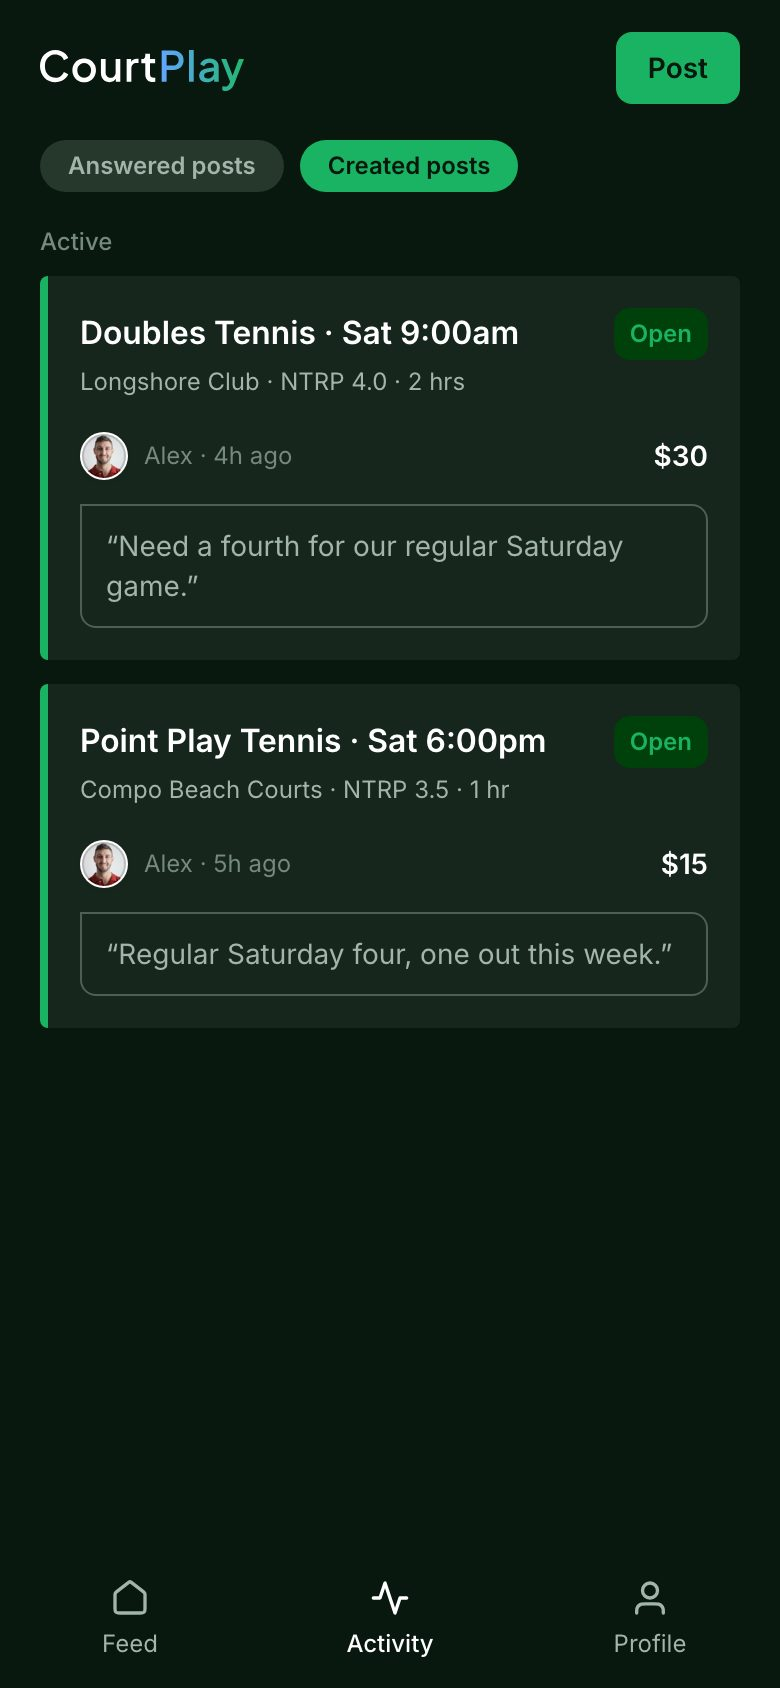
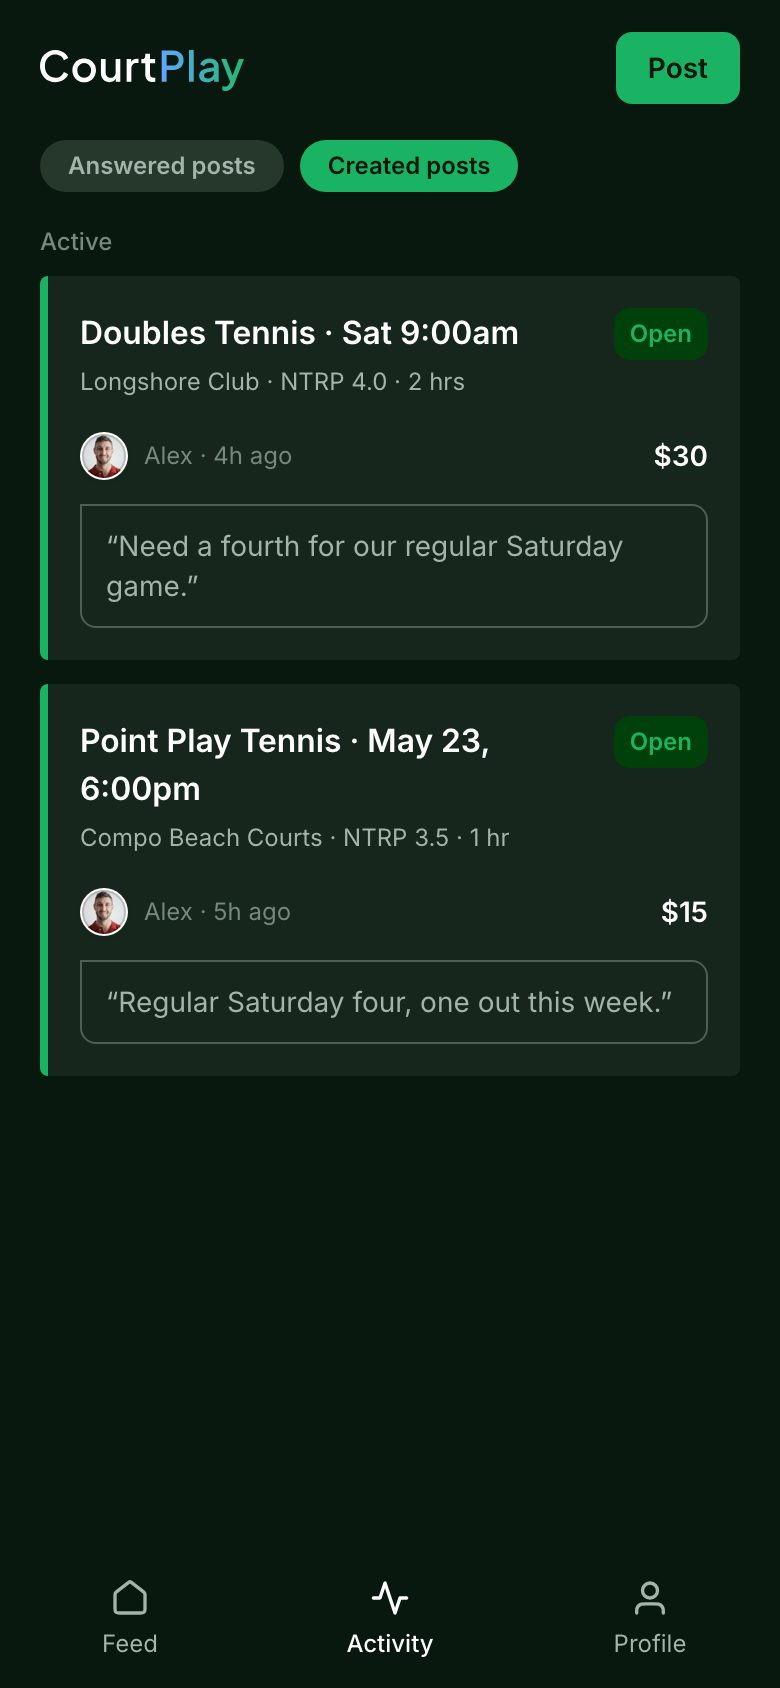
Show the date on cards more than a week out (#244)
"Sat 9:00am" only identifies a day while there is one Saturday coming. On a
post two weeks out it is ambiguous, and on an expired one it reads as the
Saturday ahead rather than the one gone. Past six days, the card now shows
"Aug 27, 9:00am" instead — three-letter month, numeric day, comma before the
time, per Figma 81:2492.

claim-detail-sheet had a byte-identical copy of the formatter; it now imports
the one in sub-card so the two cannot drift. The three claim banners keep
their own long-weekday wording — they read as sentences, not labels.

Two things this turned up in the tutorial's staleness flag, both fixed here
because this change is what exposed them:

- The Activity screen was fingerprinting its EMPTY state. The demo Supabase
  mock read `?screen=` from location.search, which only the browser sets, so
  in jsdom Activity got no rows and hashed "It's your serve" while the
  screenshot beside it showed two cards. No change to those cards could ever
  have failed the test. DemoProviders now sets the screen explicitly — it is
  the one component both engines run — and the test flushes until the tree
  stops moving instead of once.

- The Profile screenshot carried "Version <sha>", so it came out different
  after every commit. jsdom has no __BUILD_ID__, so the fingerprint could not
  see it either: the image just went stale-and-recaptured forever. Hidden in
  the demo entry alongside the Beta pill, separator included.
[…]

diff --git a/src/__tests__/tutorial-screens.test.tsx b/src/__tests__/tutorial-screens.test.tsx
@@ -5,7 +5,7 @@ import { resolve } from "node:path";
 import { DemoProviders } from "@/demo/demo-providers";
 import { DEMO_SCREENS } from "@/demo/screens";
 import { DEMO_NOW } from "@/demo/fixtures";
-import { fingerprintElement } from "@/test/fingerprint";
+import { fingerprintElement, serializeElement } from "@/test/fingerprint";
 
 // No session, exactly as the capture browser sees it — a fresh context has none.
 // The two engines must resolve auth the same way or the fingerprint would
@@ -50,6 +50,32 @@ const readManifest = (): Manifest =>
  * `npm run capture:tutorial` does after taking new screenshots, so the hashing
  * happens in exactly one place rather than once here and once in the browser.
  */
+/**
+ * Flush until the tree stops moving.
+ *
+ * A single `act` round is not enough: the screens that render a real page wait
+ * on `getSession()` and THEN fetch their rows, so one flush leaves them showing
+ * a loading or empty state. That is not a slow test — it is a blind one. It
+ * shipped that way: `activity` fingerprinted its "It's your serve" empty state
+ * while the screenshot beside it showed two cards, so no change to those cards
+ * could ever have failed this test.
+ *
+ * Settling on "two consecutive rounds serialize the same" handles a chain of
+ * any length without hard-coding how long it is.
+ */
+const SETTLE_ROUNDS = 20;
+
+async function settle(container: Element) {
+    let previous = "";
+    for (let i = 0; i < SETTLE_ROUNDS; i++) {
+        await act(async () => {});
+        const current = serializeElement(container);
+        if (current === previous) return;
+        previous = current;
+    }
+    throw new Error(`Demo screen never settled after ${SETTLE_ROUNDS} flushes.`);
+}
+
 describe("tutorial screenshots are current", () => {
     beforeAll(() => {
         vi.setSystemTime(new Date(DEMO_NOW));
@@ -60,9 +86,7 @@ describe("tutorial screenshots are current", () => {
     for (const id of Object.keys(DEMO_SCREENS)) {
         it(`fingerprints "${id}"`, async () => {
             const { container } = render(<DemoProviders screen={id}>{DEMO_SCREENS[id]()}</DemoProviders>);
-            // useAuth resolves getSession() after mount and flips `loading`.
-            // Hashing before that settles would capture the loading tree.
-            await act(async () => {});
+            await settle(container);
             hashes[id] = fingerprintElement(container);
 
             if (UPDATING) return;

diff --git a/src/demo/supabase-mock.ts b/src/demo/supabase-mock.ts
@@ -39,16 +39,28 @@ import {
  * Which screen is being photographed. The feed must not carry the pending-claim
  * banner that Activity needs, or the notification stack covers the posts the
  * slide is about — so the same RPC answers differently per screen.
+ *
+ * DemoProviders sets this, because it is the one thing both engines run. Reading
+ * `location.search` here instead was a silent trap: the browser puts the id in
+ * the URL, the fingerprint test puts it on a MemoryRouter, so in jsdom this was
+ * always null and Activity fingerprinted its empty state while the screenshot
+ * beside it showed two cards.
  */
-const screen = typeof location !== "undefined" ? new URLSearchParams(location.search).get("screen") : null;
-const onActivity = screen === "activity";
+let activeScreen: string | null = null;
 
-const RPC_DATA: Record<string, unknown> = {
+export function setDemoScreen(id: string | null) {
+    activeScreen = id;
+}
+
+const onActivity = () => activeScreen === "activity";
+
+/** A value, or a thunk for the entries that depend on which screen is active. */
+const RPC_DATA: Record<string, unknown | (() => unknown)> = {
     get_feed: [DEMO_SUB_POST, DEMO_REGULAR_POST, DEMO_CLAIMED_POST],
     get_my_groups: DEMO_GROUPS,
     get_profile: DEMO_PROFILE_PAGE,
-    get_my_posts_with_claims: onActivity ? DEMO_CREATED_POSTS : [],
-    get_my_claims_with_posts: onActivity ? DEMO_MY_CLAIMS : [],
+    get_my_posts_with_claims: () => (onActivity() ? DEMO_CREATED_POSTS : []),
+    get_my_claims_with_posts: () => (onActivity() ? DEMO_MY_CLAIMS : []),
     get_post_audience: [],
     get_my_tagged_posts: [],
     search_users: [],
@@ -86,7 +98,10 @@ export const supabase = {
         onAuthStateChange: () => ({ data: { subscription: { unsubscribe: () => {} } } }),
         signOut: async () => ({}),
     },
-    rpc: async (name: string) => ({ data: RPC_DATA[name] ?? null, error: null }),
+    rpc: async (name: string) => {
+        const entry = RPC_DATA[name];
+        return { data: (typeof entry === "function" ? (entry as () => unknown)() : entry) ?? null, error: null };
+    },
     from: (table: string) => query(TABLE_DATA[table] ?? []),
     channel: () => ({ on: () => ({ subscribe: () => ({}) }) }),
     removeChannel: () => {},

diff --git a/src/__tests__/sub-card.test.tsx b/src/__tests__/sub-card.test.tsx
@@ -1,7 +1,7 @@
 import { describe, expect, it, vi, beforeEach } from "vitest";
 import { render as rtlRender, screen, fireEvent } from "@testing-library/react";
 import { MemoryRouter } from "react-router";
-import { SubCard, gameEndMs, KIND_CONFIG } from "@/components/app/sub-card";
+import { SubCard, gameEndMs, formatWhen, KIND_CONFIG } from "@/components/app/sub-card";
 import type { FeedPost } from "@/types/feed";
 
 // eslint-disable-next-line @typescript-eslint/no-explicit-any
@@ -211,5 +211,41 @@ describe("status badges carry no dot", () => {
         for (const config of Object.values(KIND_CONFIG)) {
             expect(config).not.toHaveProperty("dot");
         }
+    });
+});
+
+/**
+ * A weekday only identifies a day while there is one of them coming. Past six
+ * days out, "Sat" could be any of several Saturdays, so the date takes over.
+ */
+describe("formatWhen", () => {
+    const iso = (daysFromToday: number) => {
+        const d = new Date();
+        d.setHours(12, 0, 0, 0);
+        d.setDate(d.getDate() + daysFromToday);
+        return d.toISOString().slice(0, 10);
+    };
+
+    it("uses the weekday inside the next six days", () => {
+        for (const days of [0, 1, 3, 6]) {
+            const out = formatWhen(iso(days), "09:00");
+            expect(out).toMatch(/^(Mon|Tue|Wed|Thu|Fri|Sat|Sun) 9:00am$/);
+            expect(out).not.toContain(",");
+        }
+    });
+
+    it("uses month and day beyond that, with a comma before the time", () => {
+        const out = formatWhen(iso(7), "09:00");
+        expect(out).toMatch(/^[A-Z][a-z]{2} \d{1,2}, 9:00am$/);
+    });
+
+    /** "Tue" on an expired post reads as the Tuesday coming, not the one gone. */
+    it("uses month and day for a date already past", () => {
+        expect(formatWhen(iso(-2), "18:00")).toMatch(/^[A-Z][a-z]{2} \d{1,2}, 6:00pm$/);
+    });
+
+    it("still handles a missing date or time", () => {
+        expect(formatWhen(null, "09:00")).toBe("9:00am");
+        expect(formatWhen(iso(30), null)).toMatch(/^[A-Z][a-z]{2} \d{1,2},$/);
     });
 });

diff --git a/src/components/app/sub-card.tsx b/src/components/app/sub-card.tsx
@@ -72,12 +72,33 @@ export function timeAgo(dateStr: string): string {
     return `${Math.floor(hrs / 24)}d ago`;
 }
 
-/** "Sat 9:00am" — weekday + start time, matching the GameCard title. */
+/** How far ahead a weekday still identifies a day without ambiguity. */
+const WEEKDAY_HORIZON_DAYS = 6;
+
+/**
+ * "Sat 9:00am" for a game inside the next week, "Aug 20, 9:00am" beyond it.
+ *
+ * A weekday is the friendlier form but it only means something while there is
+ * just one of them coming: past six days out, "Sat" could be any of several
+ * Saturdays, so the date takes over. Note the comma — it separates two numbers
+ * that would otherwise run together as "Aug 20 9:00am".
+ *
+ * A date in the past also takes the month-and-day form. An expired post saying
+ * "Tue" reads as the Tuesday coming rather than the one gone.
+ */
 export function formatWhen(gameDate: string | null, gameTime: string | null): string {
     const parts: string[] = [];
     if (gameDate) {
         const d = new Date(gameDate + "T12:00:00");
-        parts.push(d.toLocaleDateString("en-US", { weekday: "short" }));
+        // Both at noon, so a DST boundary between them cannot shift the count.
+        const today = new Date();
+        today.setHours(12, 0, 0, 0);
+        const days = Math.round((d.getTime() - today.getTime()) / 86_400_000);
+        parts.push(
+            days >= 0 && days <= WEEKDAY_HORIZON_DAYS
+                ? d.toLocaleDateString("en-US", { weekday: "short" })
+                : `${d.toLocaleDateString("en-US", { month: "short", day: "numeric" })},`,
+        );
     }
     if (gameTime) {
         const [h, m] = gameTime.split(":");

diff --git a/src/components/app/claim-detail-sheet.tsx b/src/components/app/claim-detail-sheet.tsx
@@ -2,6 +2,7 @@ import { useCallback, useEffect, useState } from "react";
 import { motion } from "motion/react";
 import { ArrowCircleRight, XClose } from "@untitledui/icons";
 import { Avatar } from "@/components/base/avatar/avatar";
+import { formatWhen } from "./sub-card";
 import { sendNotification } from "@/lib/notifications";
 import { supabase } from "@/lib/supabase";
 import { useShare } from "@/hooks/use-share";
@@ -17,22 +18,6 @@ import { describeActionError } from "@/utils/load-error";
 import { PRIMARY_MD as PRIMARY_BTN, SECONDARY_MD as SECONDARY_BTN } from "@/components/base/buttons/button-styles";
 
 const MESSAGE_MAX = 150;
-
-function formatWhen(gameDate: string | null, gameTime: string | null): string {
-    const parts: string[] = [];
-    if (gameDate) {
-        const d = new Date(gameDate + "T12:00:00");
-        parts.push(d.toLocaleDateString("en-US", { weekday: "short" }));
-    }
-    if (gameTime) {
-        const [h, m] = gameTime.split(":");
-        const hour = parseInt(h, 10);
-        const ampm = hour >= 12 ? "pm" : "am";
-        const h12 = hour % 12 || 12;
-        parts.push(`${h12}:${m}${ampm}`);
-    }
-    return parts.join(" ");
-}
 
 function formatDateLong(dateStr: string): string {
     const d = new Date(dateStr + "T12:00:00");

diff --git a/src/demo/demo-entry.tsx b/src/demo/demo-entry.tsx
@@ -38,13 +38,18 @@ localStorage.setItem("courtsub_push_prompt_dismissed", "true");
 // Screenshot-only styling. The Beta pill is a moment in time, not a feature
 // worth teaching, so it is hidden here rather than in the app.
 //
+// The build id goes with it, for a second reason: it is the commit SHA, so
+// leaving it in made the Profile screenshot come out different after EVERY
+// commit. That is churn the fingerprint cannot even see — jsdom has no
+// __BUILD_ID__ — so the image silently went stale-and-recaptured forever.
+//
 // The app's own bg-primary STAYS. An earlier version blacked it out to hide
 // bands at the top and bottom of the tutorial page, which was the wrong end of
 // the problem: those bands are the tutorial's own body showing through, and
 // blacking out bg-primary took the app's background out of the screenshots too.
 const demoStyle = document.createElement("style");
 demoStyle.textContent = `
-    [data-beta-tag] { display: none; }
+    [data-beta-tag], [data-build-id] { display: none; }
 `;
 document.head.appendChild(demoStyle);
 

diff --git a/src/demo/demo-providers.tsx b/src/demo/demo-providers.tsx
@@ -3,6 +3,7 @@ import { MemoryRouter } from "react-router";
 import { ProfileContext } from "@/providers/profile-provider";
 import { DEMO_PROFILE } from "./fixtures";
 import { SCREEN_ROUTES } from "./screens";
+import { setDemoScreen } from "./supabase-mock";
 
 /**
  * The context every demo screen renders inside.
@@ -15,6 +16,10 @@ import { SCREEN_ROUTES } from "./screens";
  * the network and the screens are identical on every run.
  */
 export function DemoProviders({ children, screen }: { children: ReactNode; screen?: string }) {
+    // Before the children render, so the first fetch already sees it. An effect
+    // would land after the page had asked and been answered wrongly.
+    setDemoScreen(screen ?? null);
+
     return (
         <MemoryRouter initialEntries={[(screen && SCREEN_ROUTES[screen]) || "/"]}>
             <ProfileContext.Provider

diff --git a/src/pages/profile.tsx b/src/pages/profile.tsx
@@ -502,11 +502,11 @@ export function Profile() {
                             >
                                 Submit Feedback
                             </button>
-                            <span aria-hidden="true">·</span>
+                            <span aria-hidden="true" data-build-id>·</span>
                             {/* Kept deliberately: this is how you tell which bundle a
                                 given device is actually running. No longer a button —
                                 it used to reveal the PushDebug panel, now removed. */}
-                            <span>Version {__BUILD_ID__}</span>
+                            <span data-build-id>Version {__BUILD_ID__}</span>
                         </p>
                     </div>
                 )}
